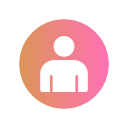
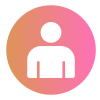
Mejoras de estilos conductor

diff --git a/public/css/conductor.css b/public/css/conductor.css
@@ -6,6 +6,12 @@ a{
     justify-content: space-between;
 }
 
+.icon_profile{
+    width: 40px;
+    height: auto;
+    margin-left: 10px;
+}
+
 .header_logo{
     display: flex;
 }
@@ -14,12 +20,6 @@ a{
     display: flex;
     align-items: center;
     color: #F2F0F2;
-}
-
-.profile_icon{
-    width: 45px;
-    margin-left: 10px;
-    height: auto;
 }
 
 .description_container{
@@ -42,7 +42,7 @@ a{
     flex-direction: column;
     align-items: center;
     background-color: #E5E5E5;
-    height: 50vh;
+    height: 37vh;
     overflow: auto;
 }
 
@@ -67,7 +67,6 @@ a{
 
 .info_container{
     display: flex;
-    justify-content: center;
     margin-left: 10px;
     width: 60%;
 }
@@ -83,6 +82,7 @@ a{
     font-size: 0.75rem;
 }
 
+
 .historial_info>p{
     margin-bottom: 5px;
 }
@@ -95,7 +95,7 @@ a{
     margin-right: 20px;
 }
 
-.historial_mas>span{
+.verDetalle_button{
     text-decoration: none;
     background-color:   #117864;
     padding: 10px;
@@ -104,34 +104,17 @@ a{
     font-size: 0.75rem;
     color: #fff;
     border: none;
+    margin-bottom: 5px;
 }
 
-.historial_mas>p{
+.carrera_estado{
     color:  #28b463 ;
     font-weight: 600;
     font-size: 0.75rem;
 }
 
-.add_button{
-    position: absolute;
-    display: flex;
-    bottom: 100px;
-    right: 20px;
-    background-color: #5EBC39;
-    border-radius: 100%;
-    box-shadow: 0 4px 8px rgba(0, 0, 0, 0.1);
-    height: 50px;
-    width: 50px;
-    transition: 0.5s;
-}
-
-.add_button:hover{
-    height: 45px;
-    width: 45px;
-}
-
 .icon_car{
-    width: 60px;
+    width: 64px;
     height: auto;
     margin-right: 20px;
 }
@@ -140,24 +123,82 @@ a{
     height: 70px;
 }
 
+/* Carrera en curso estilos*/
+
+.actual_container{
+    display: flex;
+    flex-direction: column;
+    align-items: center;
+    background-color: #E5E5E5;
+    height: auto;
+    overflow: auto;
+}
+
+.actual_card{
+    display: flex;
+    align-items: center;
+    border-radius: 10px;
+    background-color: #fff;
+    box-shadow: 0 4px 8px rgba(0, 0, 0, 0.1);
+    width: 95%;
+    height: 100px;
+    margin: 10px;
+    padding: 10px;
+}
+
+.actual_text{
+    display: flex;
+    flex-direction: column;
+    font-size: 0.75rem;
+    font-weight: 500;
+}
+
+.actual_icon{
+    width: 64px;
+    height: auto;
+}
+
+.actual_info{
+    display: flex;
+    margin-left: 10px;
+    width: 50%;
+}
+
+.negrita{
+    font-weight: 600;
+}
+
+.finalizarCarrera_button{
+    text-decoration: none;
+    background-color:   #117864;
+    padding: 10px;
+    border-radius: 5px;
+    font-weight: 600;
+    font-size: 0.75rem;
+    color: #fff;
+    border: none;
+    margin-left: 10px;
+}
+
 /* Estilos de modal*/
 
-.ubercard_container{
+.usercard_container{
     display: flex;
-    padding: 20px;
+    padding: 15px;
     background-color: #F2F0F2;
     box-shadow: 0 4px 8px rgba(0, 0, 0, 0.1);
     justify-content: center;
     margin-bottom: 20px;
 }
 
-.uberinfo_container{
+.userinfo_container{
     display: flex;
     flex-direction: column;
+    justify-content: center;
 }
 
-.uber_img{
-    height: 60px;
+.user_img{
+    height: 80px;
     width: auto;
     margin-right: 40px;
 }

diff --git a/public/js/principalConductor.js b/public/js/principalConductor.js
@@ -30,14 +30,12 @@ function mostrarFacturaEnModal(data) {
     let telefono = document.getElementById('telefono');
 
     titulo.textContent = `Carrera No. ${data.idCarrera}`;
-
-    
     nombreApellido.textContent = `${data.cliente.nombre} ${data.cliente.apellido}`;
     fecha.textContent = data.fecha;
     origenCarrera.textContent = data.ubicacionInicial;
     destinoCarrera.textContent = data.ubicacionFinal;
     metodoPago.textContent = data.metodoPago;
-    telefono.textContent = data.cliente.telefono;
+    telefono.textContent = `Telefono: ${data.cliente.telefono}`;
 
     totalPagar.textContent = `L. ${data.total}`;
 }

diff --git a/resources/views/conductorPrincipal.blade.php b/resources/views/conductorPrincipal.blade.php
@@ -5,68 +5,64 @@
     <meta name="viewport" content="width=device-width, initial-scale=1.0">
     <meta http-equiv="X-UA-Compatible" content="ie=edge">
     <link rel="stylesheet" href={{asset('css/reset.css')}}>
-    <link rel="stylesheet" href={{asset('css/login.css')}}>
-    <link rel="stylesheet" href={{asset('css/cliente.css')}}>
     <link rel="preconnect" href="https://fonts.googleapis.com">
     <link rel="preconnect" href="https://fonts.gstatic.com" crossorigin>
     <link href="https://fonts.googleapis.com/css2?family=Poppins:wght@400;500;600&display=swap" rel="stylesheet">
-    <link rel="stylesheet" href={{asset('css/cliente.css')}}>
-    <link rel="stylesheet" href={{asset('css/app.css')}}>
     <link href="https://cdn.jsdelivr.net/npm/bootstrap@5.3.2/dist/css/bootstrap.min.css" rel="stylesheet" integrity="sha384-T3c6CoIi6uLrA9TneNEoa7RxnatzjcDSCmG1MXxSR1GAsXEV/Dwwykc2MPK8M2HN" crossorigin="anonymous">
-    
+    <link rel="stylesheet" href={{asset('css/login.css')}}>
+    <link rel="stylesheet" href={{asset('css/conductor.css')}}>
+    <link rel="stylesheet" href={{asset('css/app.css')}}>    
     <title>Bienvenida</title>
 </head>
-
     <body>
         <header>
             <div class="header_container">
-                <img class="icon" src={{asset('img/logo.svg')}} alt="">
-                <h3 class="title">LightDriving</h3>
-                <a href="{{ route('conductor.verPerfil', ['idConductor' => $conductor->idConductor, 'idUber' => $conductor->idUber]) }}">perfil</a>
-
+                <a class="header_logo" href={{route('home')}}>
+                    <img class="icon" src={{asset('img/logo.svg')}} alt="">
+                    <h3 class="title">LightDriving</h3>
+                </a>
+                <a class="header_profile" href="{{ route('conductor.verPerfil', ['idConductor' => $conductor->idConductor, 'idUber' => $conductor->idUber]) }}">
+                    <span>{{$conductor->nombre}}</span>
+                    <img class="icon_profile" src="{{asset('img/uberProfile.png')}}" alt="">
+                </a>
             </div>
         </header>
+
         <div class="main_container">
             <h4 class="main_text">Bienvenido</h4>
-            <h4 class="main_text">{{$conductor->nombre." ".$conductor->apellido."" }} 
+            <h4 class="main_text">{{$conductor->nombre." ".$conductor->apellido."" }}</h4>
+
         <p class="historial_title">Carrera en Curso</p>
         
-        <div class="">
+        <div class="actual_container">
             @if ($conductor->carreraEnProgreso)
-                <div class="historial_card">
-                    <section class="info_container">
-                        <img class="icon_car" src="{{ asset('img/carrera.png') }}" alt="icono auto">
-                            <div class="historial_info">
-                                <span>Cliente: {{ $conductor->carreraEnProgreso->cliente->nombre }} {{ $conductor->carreraEnProgreso->cliente->apellido }}</span>
-                                <span class="date_card">Fecha: {{ $conductor->carreraEnProgreso->factura->fecha }}</span>
-                                <span>Método: {{ $conductor->carreraEnProgreso->factura->metodoPago->descripcion }}</span>
-                                <span>Total: {{ $conductor->carreraEnProgreso->factura->total }}</span>
-                            </div>
-
+                <div class="actual_card">
+                    <img class="actual_icon" src="{{ asset('img/carreraCurso.png') }}" alt="icono auto">
+                    <section class="actual_info">
+                        <div class="actual_text">
+                            <span class="date_card">{{ $conductor->carreraEnProgreso->factura->fecha }}</span>
+                            <span><span class="negrita">Cliente: </span>{{ $conductor->carreraEnProgreso->cliente->nombre }} {{ $conductor->carreraEnProgreso->cliente->apellido }}</span>
+                            <span><span class="negrita">Método: </span>{{ $conductor->carreraEnProgreso->factura->metodoPago->descripcion }}</span>
+                            <span><span class="negrita">Total: </span>L. {{ $conductor->carreraEnProgreso->factura->total }}</span>
+                        </div>
                     </section>
-                    <div class="historial_mas">
-                        
-                      <a href="{{ route('conductor.finalizar', ['idConductor' => $conductor->idConductor, 'idCarrera' => $conductor->carreraEnProgreso->idCarrera]) }}">Finalizar Carrera</a>
-
-                            
-                    </div>
+                    <a class="finalizarCarrera_button" href="{{ route('conductor.finalizar', ['idConductor' => $conductor->idConductor, 'idCarrera' => $conductor->carreraEnProgreso->idCarrera]) }}">Finalizar</a>
                 </div>
-                    @else
-                        <p>No hay carrera en curso en este momento.</p>
-                    @endif
+            @else
+                <p>No hay carreras en curso en este momento.</p>
+            @endif
         </div>
 
         <p class="historial_title">Tus viajes</p>
+
         <div class="historial_container">
-           
             @foreach ($conductor->facturas as $factura)
             <div class="historial_card">
                 <section class="info_container">
-                    <img class="icon_car" src={{asset('img/carrera.png')}} alt="icono auto">
+                    <img class="icon_car" src={{asset('img/carreraConductor.png')}} alt="icono auto">
                     <div class="historial_info">
-                        <!--Falta mostrar el id de la carrera!--> 
                         <span class="date_card">{{$factura->fecha}}</span>
-                        <span>Total: {{$factura->total}}</span>
+                        <span>Total: L. {{$factura->total}}</span>
                         <span>Metodo: {{$factura->metodoPago}}</span>
                     </div>    
                 </section>
@@ -75,9 +71,9 @@
                     <p class="carrera_estado" id={{$factura->idFactura}}>{{$factura->estadoCarrera}}</p>
                 </div>
             </div>
-            
             @endforeach
         </div>
+
         <div class="modal fade" id="facturaModal" tabindex="-1" aria-labelledby="exampleModalLabel" aria-hidden="true">
                 <div class="modal-dialog">
                   <div class="modal-content">
@@ -87,11 +83,11 @@
                     </div>
                     <div class="modal-body">
                         <p>Viajaste con</p>
-                        <div class="ubercard_container">
-                            <img class="uber_img" src={{asset('img/uberProfile.png')}} alt="">
-                            <div class="uberinfo_container">
-                                <span id="nombreApellido" class="text_name"></span>
-                              <span id="telefono" class="text_info"></span>
+                        <div class="usercard_container">
+                            <img class="user_img" src={{asset('img/usuarioProfile.png')}} alt="">
+                            <div class="userinfo_container">
+                            <span id="nombreApellido" class="text_name"></span>
+                            <span id="telefono" class="text_info"></span>
                             </div>
                           </div>
         
@@ -114,27 +110,13 @@
                 </div>
               </div>
         </div>
-        
-        <div class="historial_card">
-            <div class="button_container">
-                <a href="{{route('conductor.login')}}" class="form_button_back" >Cerrar sesion</a>
-            </div>
-            
-
-        </div>
         <footer>
             <div class="footer_container">
                 <h3 class="footer_text">LightDriving</h3>
                 <img class="footer_social" src={{asset('img/social.svg')}} alt="">
             </div>
-        </footer>
-
-        <!-- Incluye Bootstrap JS antes de tu script --><!-- Incluye Bootstrap JS antes de tu script -->
-        
-<script src="https://cdn.jsdelivr.net/npm/bootstrap@5.3.2/dist/js/bootstrap.bundle.min.js" integrity="sha384-C6RzsynM9kWDrMNeT87bh95OGNyZPhcTNXj1NW7RuBCsyN/o0jlpcV8Qyq46cDfL" crossorigin="anonymous"></script>
-<script src={{asset('js/historico.js')}}></script>
-<script src={{asset('js/historicoTotal.js')}}></script>
-<script src={{asset('js/principalConductor.js')}}></script>
-
+        </footer>        
+        <script src="https://cdn.jsdelivr.net/npm/bootstrap@5.3.2/dist/js/bootstrap.bundle.min.js" integrity="sha384-C6RzsynM9kWDrMNeT87bh95OGNyZPhcTNXj1NW7RuBCsyN/o0jlpcV8Qyq46cDfL" crossorigin="anonymous"></script>
+        <script src={{asset('js/principalConductor.js')}}></script>
     </body>
 </html>

diff --git a/resources/views/principalCliente.blade.php b/resources/views/principalCliente.blade.php
@@ -23,7 +23,7 @@
                 </a>
                 <a class="header_profile" href={{route('cliente.verPerfil', $cliente->id)}}>
                     <span>{{$cliente->nombre}}</span>
-                    <img class="icon" src="{{asset('img/usuarioProfile.png')}}" alt="">
+                    <img class="profile_icon" src="{{asset('img/usuarioProfile.png')}}" alt="">
                 </a>
             </div>
         </header>
